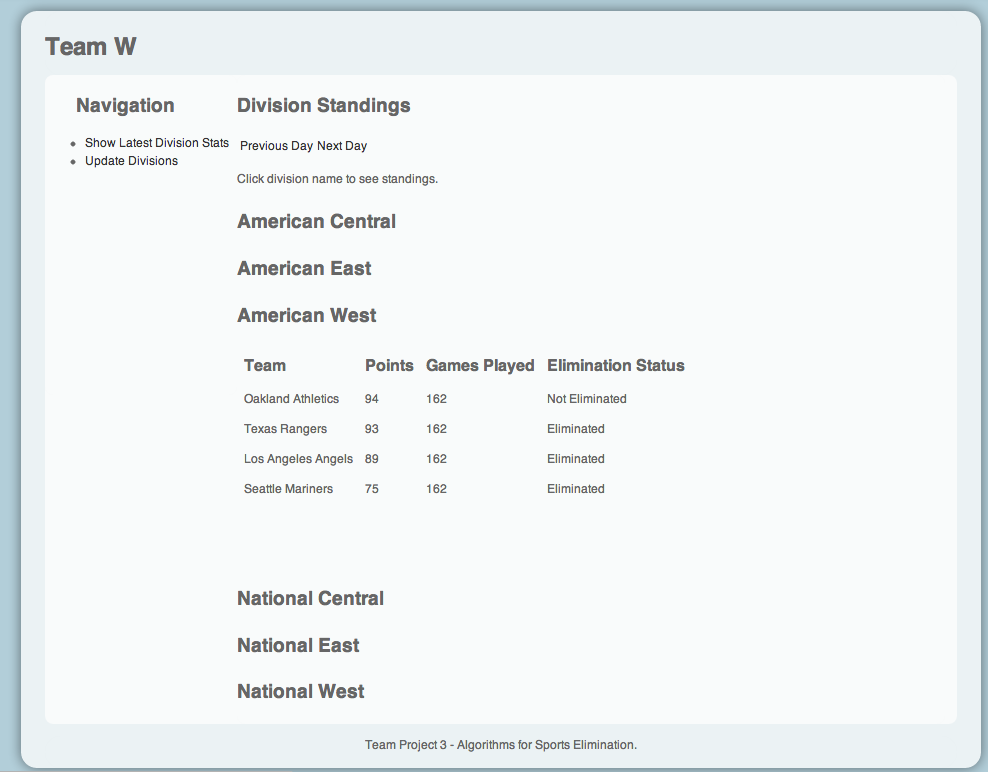
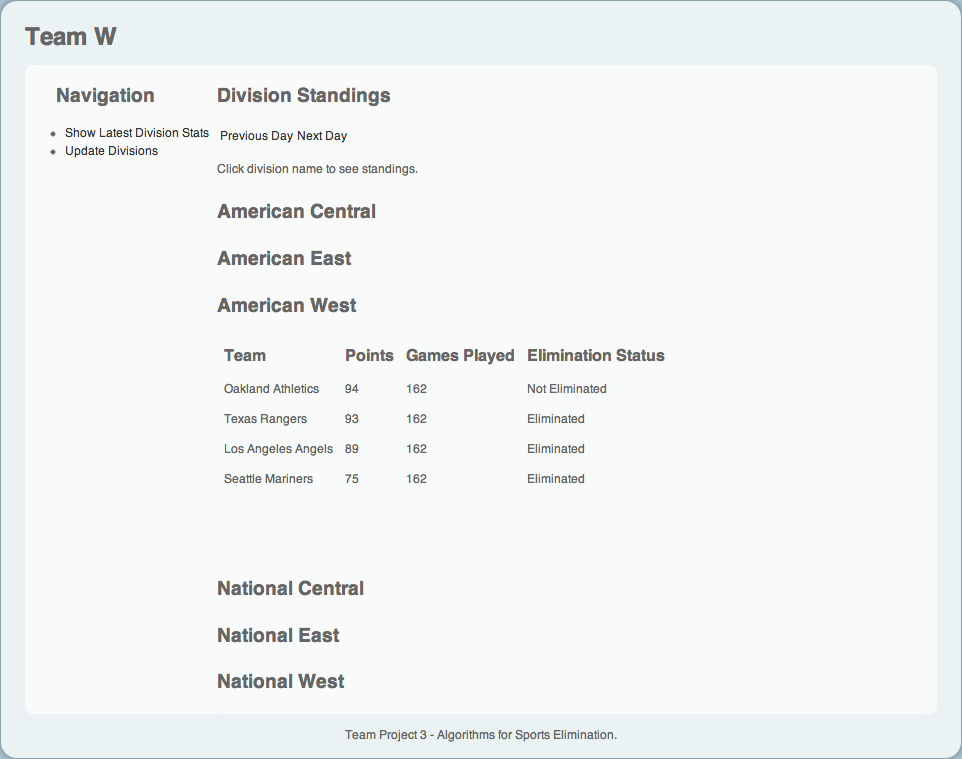
Figure reference to web application screenshot

diff --git a/docs/report/includes/webApplication.tex b/docs/report/includes/webApplication.tex
@@ -78,10 +78,14 @@ the realms of what is a typical layout of a web page.
 A wireframe for the web application is shown in appendix
 \ref{fig:webApplicationWireframe}.
 
-A screenshot of the final design is shown below:
+A screenshot of the final design is shown in Figure~\ref{fig:webAppScreenshot}.
 
+\begin{figure}
 \includegraphics[width=\linewidth,keepaspectratio]
 {images/webAppScreenshot.png}
+\caption{Web Application Screenshot}
+\label{fig:webAppScreenshot}
+\end{figure}
 
 The web application has a single page containing the six available divisions.
 Each division is a table and only one is available for viewing at a time. The 
